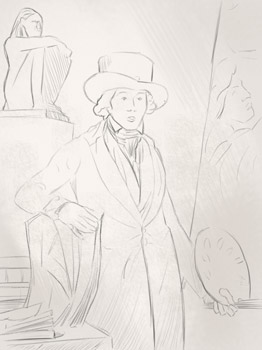
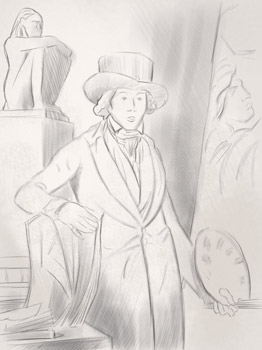
:bento: Update scene 1 and 2 assets

diff --git a/src/classes/Components/Room2.ts b/src/classes/Components/Room2.ts
@@ -34,7 +34,7 @@ export default class Room2 extends LoadedComponent {
                     left_wall_2: 'room2/mur_gauche.jpg',
                     right_wall_2: 'room2/mur_droite.jpg',
                     floor_2: 'room2/sol.jpg',
-                    ceil: 'room/plafond_v03.jpg',
+                    ceil: 'room/o/structure/plafond.jpg',
 
                     character_1: 'room2/s2_personnage_extreme_gauche.jpg',
                     character_1_alpha: 'room2/s2_personnage_extreme_gauche_alpha.png',
@@ -52,7 +52,8 @@ export default class Room2 extends LoadedComponent {
                     character_5: 'room2/s2_homme_droite_chaise.jpg',
                     character_5_alpha: 'room2/s2_homme_droite_chaise_alpha.png',
 
-                    character_6: 'room2/scene_02_homme_extreme_droite_v01.png',
+                    character_6: 'room2/scene_02_homme_extreme_droite_v01.jpg',
+                    character_6_alpha: 'room2/scene_02_homme_extreme_droite_v01.png',
                     character_6_sketch: 'room2/scene_02_homme_extreme_droite_v01_croquis.png',
 
                     character_7: 'room2/s2_assis_fond.jpg',
@@ -67,8 +68,9 @@ export default class Room2 extends LoadedComponent {
                     character_right_alpha: 'room2/s2_personnages_derriere_cadres_droite_alpha.png',
 
                     // characters_painting: 'room2/scene_02_cadre_plus_personnages_v01.png',
-                    frame: 'room2/s2_cadres.jpg',
-                    frame_alpha: 'room2/s2_cadres.png',
+                    frame: 'room2/scene_02_cadres_v01.jpg',
+                    frame_alpha: 'room2/scene_02_cadres_v01.png',
+                    frame_shadow: 'room2/scene_02_cadres_ombre_v01.png',
 
                     peace_painting: 'room/o/interactive/oeuvre.jpg',
                     magnifying_glass: 'loupe.png',
@@ -143,9 +145,16 @@ export default class Room2 extends LoadedComponent {
                     }),
                     new SceneObject({
                         size: new THREE.Vector2(0.733 * 2.9, 0.835 * 2.64),
-                        position: new THREE.Vector3(-0, -1.177, -0.48),
+                        position: new THREE.Vector3(0, -1.177, -0.48),
                         texture: textures.frame,
                         alpha: textures.frame_alpha,
+                    }),
+                    new SceneObject({
+                        size: new THREE.Vector2(2.126, 1),
+                        position: new THREE.Vector3(0, -2.2, -0.6),
+                        rotation: new THREE.Euler(-Math.PI / 2, 0, 0),
+                        texture: textures.frame_shadow,
+                        depthWrite: false,
                     }),
                     new Component(
                         () => {
@@ -258,12 +267,27 @@ export default class Room2 extends LoadedComponent {
                         texture: textures.character_5,
                         alpha: textures.character_5_alpha,
                     }),
-                    new SceneObject({
-                        size: new THREE.Vector2(0.867 * 1.2, 1.231 * 1.2),
-                        position: new THREE.Vector3(1.75, -1.2, 1.6),
-                        texture: textures.character_6,
-                        alpha: textures.character_6_alpha,
-                    }),
+                    new Component(
+                        () => {
+                            const object = new THREE.Object3D()
+                            object.position.set(1.75, -1.2, 1.6)
+                            return object
+                        },
+                        [],
+                        {},
+                        [
+                            new Interactive({
+                                name: 'JBPierre',
+                                sceneName: 'Demo',
+                                sketch: textures.character_6_sketch,
+                                painting: textures.character_6,
+                                alpha: textures.character_6_alpha,
+                                ratio: new THREE.Vector2(0.867 * 1.2, 1.231 * 1.2),
+                                glassTexture: textures.magnifying_glass,
+                                glassPosition: new THREE.Vector3(-0.5, 0.1, 0.3),
+                            }),
+                        ],
+                    ),
                     new SceneObject({
                         size: new THREE.Vector2(0.547 * 1.2, 0.765 * 1.2),
                         position: new THREE.Vector3(1.35, -1.5, 0.9),

diff --git a/src/classes/Components/Room.ts b/src/classes/Components/Room.ts
@@ -37,7 +37,7 @@ export default class Room extends LoadedComponent {
                     left_wall_corner: 'room/o/structure/mur_gauche_recoin.jpg',
                     right_wall: 'room/o/structure/mur_droite.jpg',
                     floor_shadow: 'room/o/left_shadow.png',
-                    ceil: 'room/plafond_v03.jpg',
+                    ceil: 'room/o/structure/plafond.jpg',
                     chest_sculpture: 'room/o/interactive/scene_01_sculture_v01.jpg',
                     chest_sculpture_alpha: 'room/o/interactive/scene_01_sculture_v01_alpha.png',
                     chest_sculpture_sketch: 'room/o/interactive/scene_01_esquisse_sculture_v01.png',
@@ -45,7 +45,8 @@ export default class Room extends LoadedComponent {
                     chest_sculpture_table_alpha: 'room/o/scene_01_premier_plan_v01.png',
                     chair: 'room/o/scene_01_chaise_v01.jpg',
                     chair_alpha: 'room/o/scene_01_chaise_v01.png',
-                    // chair_leg: 'room/02_chaise.png',
+                    chair_leg: 'room/o/scene_01_chaise_pied.jpg',
+                    chair_leg_alpha: 'room/o/scene_01_chaise_pied.png',
                     chair_shadow: 'room/o/scene_01_chaise_ombre_v01.png',
                     stool: 'room/o/scene_01_Tabouret_v01.jpg',
                     stool_alpha: 'room/o/scene_01_Tabouret_v01.png',
@@ -259,12 +260,13 @@ export default class Room extends LoadedComponent {
                         alpha: textures.chair_alpha,
                         depthWrite: false,
                     }),
-                    // new SceneObject({
-                    //     size: new THREE.Vector2(0.9, 1.4),
-                    //     position: new THREE.Vector3(0.725, -1.15, 0.25),
-                    //     texture: textures.chair_leg,
-                    //     depthWrite: false,
-                    // }),
+                    new SceneObject({
+                        size: new THREE.Vector2(0.11, 0.4),
+                        position: new THREE.Vector3(0.725, -1.58, 0.25),
+                        texture: textures.chair_leg,
+                        alpha: textures.chair_leg_alpha,
+                        depthWrite: false,
+                    }),
                     new SceneObject({
                         size: new THREE.Vector2(1.9, 0.6),
                         position: new THREE.Vector3(1.2, -1.745, 0.27),

diff --git a/src/index.html b/src/index.html
@@ -211,6 +211,14 @@
                     <span class="strong">rameau d’olivier</span> de paix.
                 </p>
             </div>
+            <div class="css3d-textinfo preventClick css3d-div css3d-font-s" id="JBPierre">
+                <h5>Le statut des femmes</h5>
+                <p>
+                    <span class="strong">Jean-Baptiste Pierre</span>, premier peintre du roi, souhaitait refuser E.
+                    Vigée le Brun à l’Académie en raison de la profession commerçante de son mari. En effet, les femmes
+                    n’avaient à cette époque pas d’autre statut social que celui de leur époux.
+                </p>
+            </div>
         </div>
     </body>
 </html>

diff --git a/src/setup.ts b/src/setup.ts
@@ -131,6 +131,10 @@ export default function Setup(key: Key): Promise<{ raf: Function; cb: Function }
             position: new THREE.Vector3(1.5, 1.6, 0),
             elementId: 'LaPaix',
         }),
+        new TextInfo({
+            position: new THREE.Vector3(1.2, 1.5, 1.1),
+            elementId: 'JBPierre',
+        }),
     ]
 
     const CSS3DScene = new ThreeScene(
